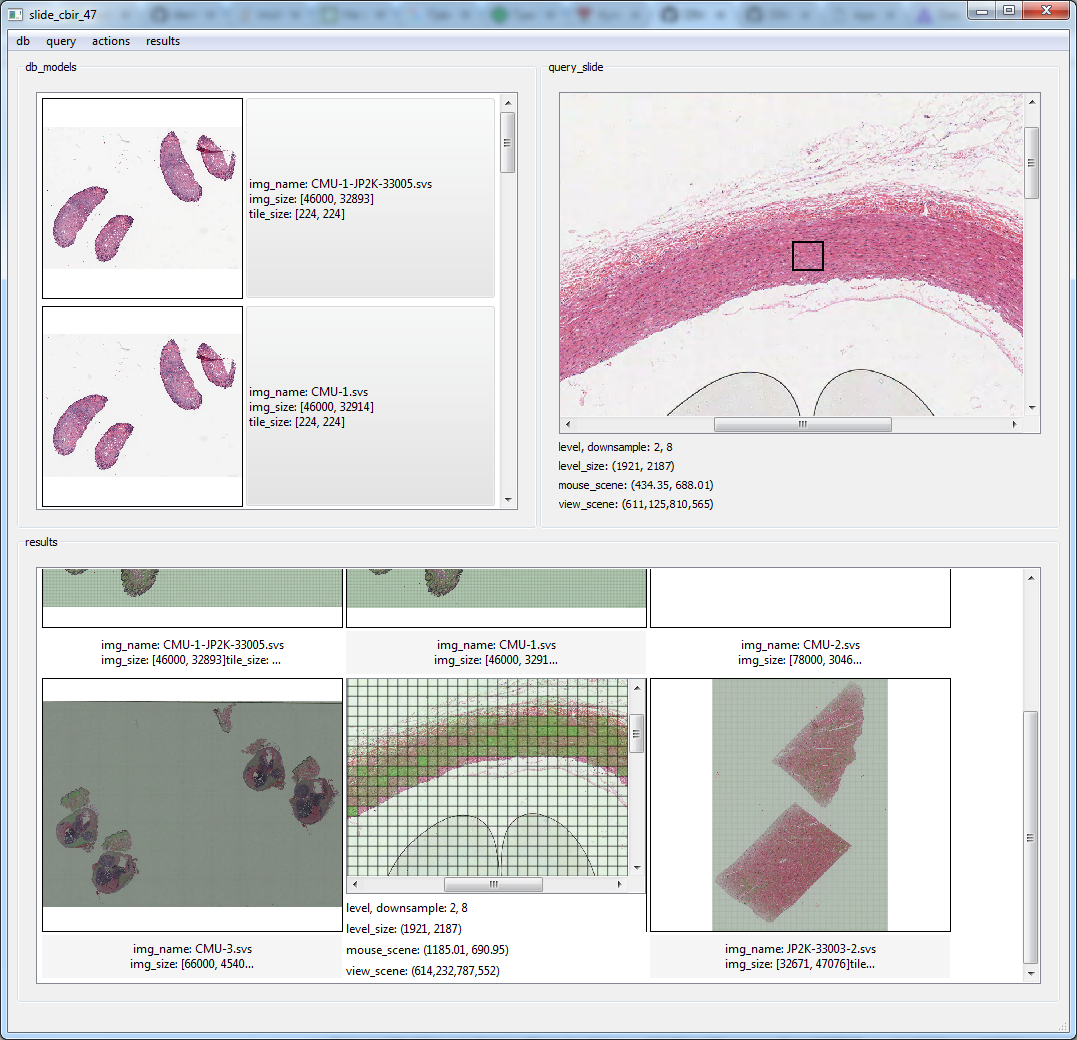
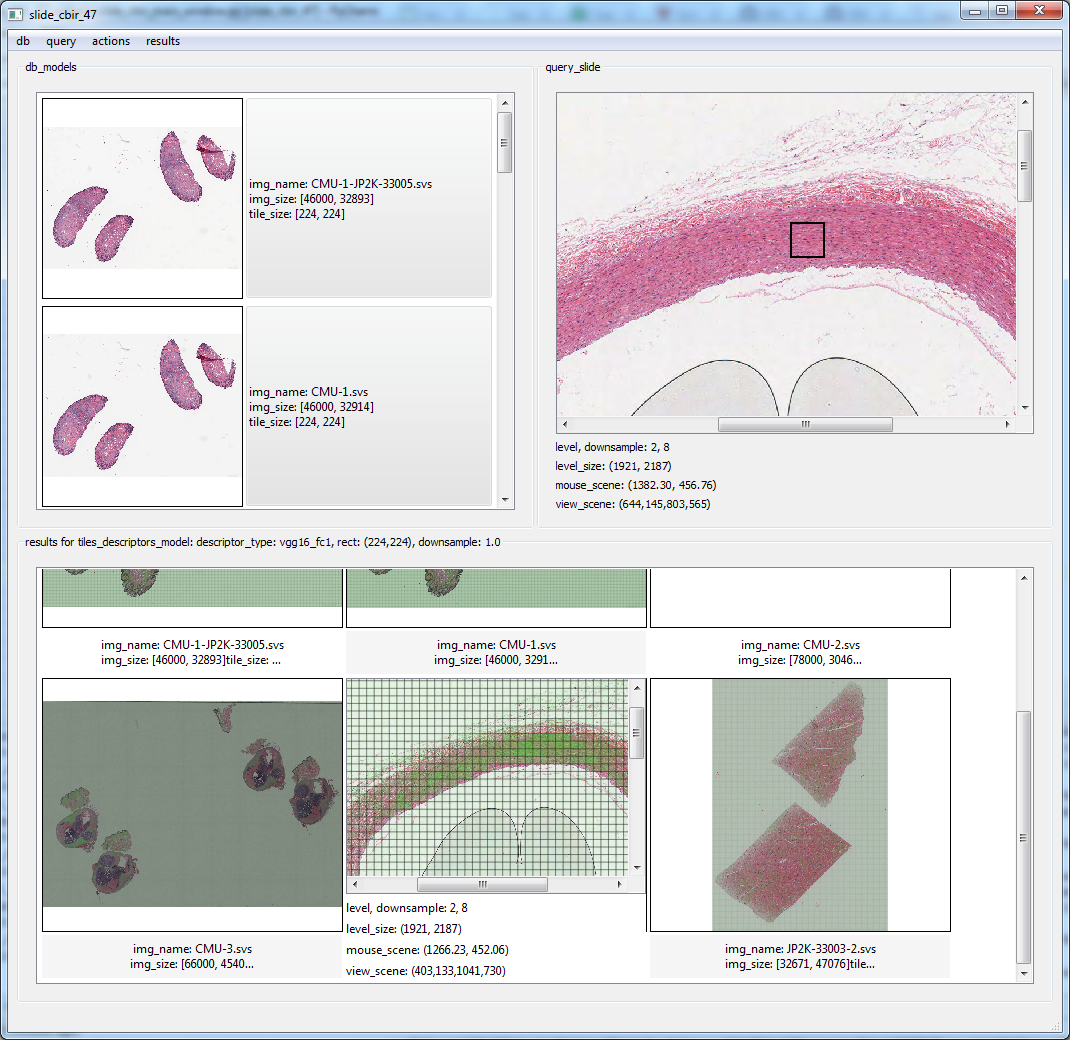
update readme and screenshot

diff --git a/slide_cbir_47/widgets/slide_cbir_main_window.py b/slide_cbir_47/widgets/slide_cbir_main_window.py
@@ -159,6 +159,10 @@ class CbirMainWindow(QMainWindow):
         self.statusBar().showMessage("Searching done. Visualization might take several seconds")
         self.result_items_widget.list_model.update_items(result_items)
 
+        chosen_tiles_descriptors_model_str = tiles_descriptors_model_to_str(chosen_tiles_descriptors_model)
+        self.ui.bottom_group_box.setTitle(
+            "results for tiles_descriptors_model: {}".format(chosen_tiles_descriptors_model_str))
+
         # nearest_indices_model = generate_nearest_indices_model(distance_model, -1, "computed/nearest_indices.hdf5")
         # nearest_indices = computer_utils.compute_model(nearest_indices_model)[0]
         # print(nearest_indices)

diff --git a/README.md b/README.md
@@ -6,21 +6,19 @@ Project depends on:
 - [slide_viewer_47](https://github.com/DIMAthe47/slide_viewer_47)
 - [slide_list_view_47](https://github.com/DIMAthe47/slide_list_view_47)
 
-Implemented CBIR-technique:
+####Implemented CBIR-technique:
 
-Precompute stage. For each db-slide (slide from collection of slides you want to search):
+#####Precompute stage. For each db-slide (slide from collection of slides you want to search):
 - slice each db-slide image into tiles
 - compute descriptor of some type for each tile 
 
-Search stage. For a given query-tile (tile from some slide image):
+#####Search stage. For a given query-tile (tile from some slide image):
 - compute descriptor of some type (corresponding to types selected in precompute stage)
 - exhaustively compare each descriptor of each db-slide with descriptor of query-tile
 - visualize distances between db-tiles and query-tile
 
-Descriptors are stored in hdf5 files.
 
-Use:
-precompute stage
+####Use:
 - set up [configuration-file](/slide_cbir_47/precompute/compute_config.py) (configuring descriptor types, tile size, path to db-slides, path to descriptors to be computed)
 - use [download_utils](/slide_cbir_47/download_utils) to load some whole-slide images if you havent
 - [generate json-models](/slide_cbir_47/precompute/generate_models.py) for future computation 
@@ -32,8 +30,10 @@ precompute stage
 - select in menu "actions"->"search in selected db_models"
 - search results (represented as intensities proportional to distances between tiles) will be populated (bottom pane)
 
-Note: for any db-slide or result-slide there is an extended view mode (activated by doubleclick)
+######Notes:
+- for any db-slide or result-slide there is an extended view mode (activated by doubleclick)
 where you can zoom it and toggle grid visibility.
+- descriptors are stored in hdf5 files.
 
 Examples of whole-slide images can be downloaded from [openslide-testdata](http://openslide.cs.cmu.edu/download/openslide-testdata/) page.
 
